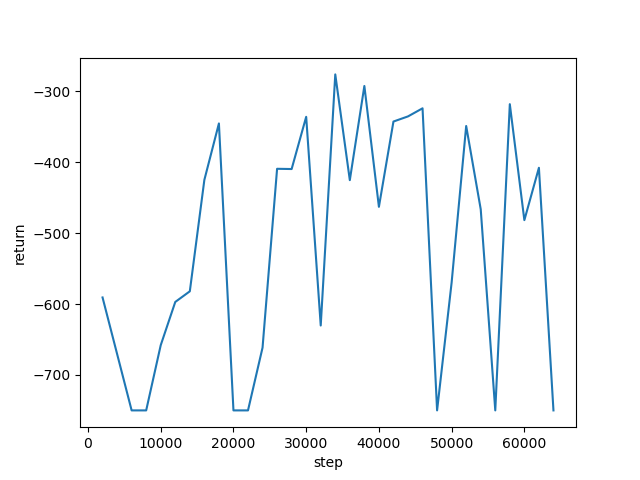
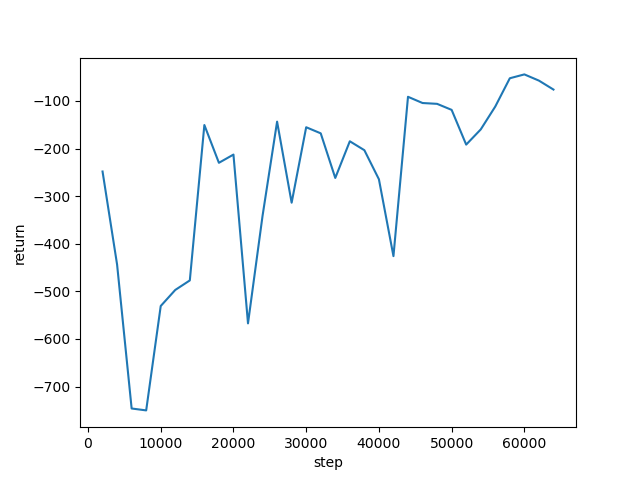
5 runs of tol = 0.01

diff --git a/task_ur5_visual_reacher.py b/task_ur5_visual_reacher.py
@@ -36,10 +36,10 @@ config = {
 def parse_args():
     parser = argparse.ArgumentParser(description='Local remote visual UR5 Reacher')
     # environment
-    parser.add_argument('--setup', default='Visual-UR5')
+    parser.add_argument('--setup', default='Visual-UR5-min-time')
     parser.add_argument('--env_name', default='Visual-UR5', type=str)
     parser.add_argument('--ur5_ip', default='129.128.159.210', type=str)
-    parser.add_argument('--camera_id', default=0, type=int)
+    parser.add_argument('--camera_id', default=2, type=int)
     parser.add_argument('--image_width', default=160, type=int)
     parser.add_argument('--image_height', default=90, type=int)
     parser.add_argument('--target_type', default='reaching', type=str)
@@ -101,10 +101,7 @@ def main():
     elif args.mode == 'o':
         mode = MODE.LOCAL_ONLY
         mt = MonitorTarget()
-        mt.reset_plot()
-        mt.reset_plot()
-        mt.reset_plot()
-        mt.reset_plot()
+        
     elif args.mode == 'ro':
         mode = MODE.ONBOARD_REMOTE
     elif args.mode == 'e':
@@ -148,8 +145,16 @@ def main():
     )
 
     utils.set_seed_everywhere(args.seed, None)
-    
+    mt.reset_plot()
+    mt.reset_plot()
+    mt.reset_plot()
+    mt.reset_plot()
+    input('go?')
     obs, state = env.reset()
+    image_to_show = np.transpose(image, [1, 2, 0])
+    image_to_show = image_to_show[:,:,-3:]
+    cv2.imshow('raw', image_to_show)
+    cv2.waitKey(0)
     args.image_shape = env.observation_space.shape
     args.proprioception_shape = env.state_space.shape
     args.action_shape = env.action_space.shape
@@ -180,16 +185,13 @@ def main():
         args.init_steps = 0
     
     agent.send_init_ob((obs, state))
-    image_to_save = np.transpose(obs, [1, 2, 0])
-    image_to_save = image_to_save[:,:,0:3]
-    cv2.imwrite('./0.png', image_to_save)
-    input('go on')
+    
     start_time = time.time()
     for step in range(args.env_steps + args.init_steps):
-        if mode == MODE.EVALUATION:
-            image_to_save = np.transpose(obs, [1, 2, 0])
-            image_to_save = image_to_save[:,:,0:3]
-            cv2.imwrite(episode_image_dir+'/'+str(step)+'.png', image_to_save)
+        image_to_show = np.transpose(image, [1, 2, 0])
+        image_to_show = image_to_show[:,:,-3:]
+        cv2.imshow('raw', image_to_show)
+        cv2.waitKey(1)
 
         action = agent.sample_action((obs, state), step)
 

diff --git a/task_ur5_visual_reacher_min_task.py b/task_ur5_visual_reacher_min_task.py
@@ -83,7 +83,7 @@ def parse_args():
     parser.add_argument('--mode', default='o', type=str, help="Modes in ['r', 'o', 'ro', 'e'] ")
     # misc
     parser.add_argument('--appendix', default='min-time-random-target', type=str)
-    parser.add_argument('--seed', default=9, type=int)
+    parser.add_argument('--seed', default=5, type=int)
     parser.add_argument('--work_dir', default='.', type=str)
     parser.add_argument('--save_tb', default=False, action='store_true')
     parser.add_argument('--save_model', default=True, action='store_true')

diff --git a/plot copy.py b/plot copy.py
@@ -8,7 +8,7 @@ df = pandas.DataFrame(columns=["step", "avg_ret"])
 
 int = 2000
 for seed in range(0, 1):
-    exp = "Visual-UR5-min-time_dt=0.04_bs=256_tol=0.02_dim=160*90_9_min-time-random-target"
+    exp = "Visual-UR5-min-time_dt=0.04_bs=256_tol=0.01_dim=160*90_5_min-time-random-target"
 
     with open("results/"+exp+"/train.log") as f:
         episodes = f.readlines()
